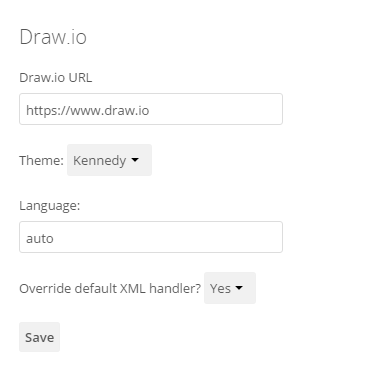
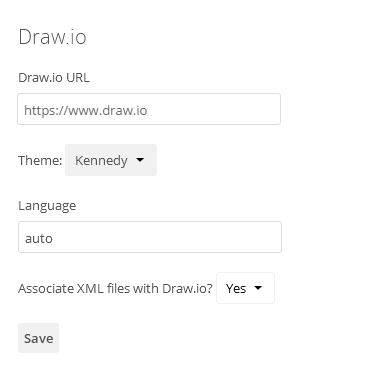
Bugfixes, new version 0.8.6

diff --git a/drawio/js/main.js b/drawio/js/main.js
@@ -9,6 +9,8 @@
 
     OCA.Drawio = _.extend({}, OCA.Drawio);
 
+    OCA.AppSettings = null;
+
     if (!OCA.Drawio.AppName)
     {
         OCA.Drawio = {
@@ -90,33 +92,34 @@
                 return;
             }
 
-            var override_default = true;
-
             $.get(OC.generateUrl("apps/" + OCA.Drawio.AppName + "/ajax/settings"),
-                function onSuccess(mimes)
+                function onSuccess(json)
                 {
+                    OCA.AppSettings = json.settings;
+                    OCA.Drawio.mimes = json.formats;
 
-                    OCA.Drawio.mimes = mimes;
-                    $.each(mimes, function (ext, attr)
+                    $.each(OCA.Drawio.mimes, function (ext, attr)
                     {
                         fileList.fileActions.registerAction({
                             name: "drawioOpen",
                             displayName: t(OCA.Drawio.AppName, "Open in Draw.io"),
                             mime: attr.mime,
                             permissions: OC.PERMISSION_READ | OC.PERMISSION_UPDATE,
-                            icon: function () {
+                            icon: function ()
+                            {
                                 return OC.imagePath(OCA.Drawio.AppName, "btn-edit");
                             },
-                            actionHandler: function (fileName, context) {
+                            iconClass: "icon-drawio-xml",
+                            actionHandler: function (fileName, context)
+                            {
                                 OCA.Drawio.FileClick(fileName, context, attr);
                             }
                         });
 
-                        if ( (fileList.fileActions.getDefaultFileAction(attr.mime, "file", OC.PERMISSION_READ) == false) || (override_default) )
+                        if ( (fileList.fileActions.getDefaultFileAction(attr.mime, "file", OC.PERMISSION_READ) == false) || (OCA.AppSettings.overrideXml=="yes") ) //yes, it's "yes" ;-)
                         {
                             fileList.fileActions.setDefault(attr.mime, "drawioOpen");
                         }
-
                     });
                 }
             );
@@ -150,3 +153,52 @@
 
 OC.Plugins.register("OCA.Files.FileList", OCA.Drawio.FileList);
 OC.Plugins.register("OCA.Files.NewFileMenu", OCA.Drawio.NewFileMenu);
+
+
+
+
+/*
+ A little bit of a hack - changing file icon...
+*/
+$(document).ready(function()
+{
+
+    PluginDrawIO_ChangeIcons = function()
+    {
+         $("#filestable").find("tr[data-type=file]").each(function()
+         {
+                if ( ($(this).attr("data-mime")=="application/xml") && ($(this).find("div.thumbnail").length>0) )
+                {
+                    if ($(this).find("div.thumbnail").hasClass("icon-drawio-xml")==false)
+                    {
+                         $(this).find("div.thumbnail").addClass("icon icon-drawio-xml");
+                    }
+                }
+         });
+    };
+
+
+    if ($('#filesApp').val())
+    {
+
+        $('#app-content-files')
+            .add('#app-content-extstoragemounts')
+            .on('changeDirectory', function(e)
+            {
+                if (OCA.AppSettings==null) return;
+                if (OCA.AppSettings.overrideXml=="yes")
+                {
+                    PluginDrawIO_ChangeIcons();
+                }
+            })
+            .on('fileActionsReady', function(e)
+            {
+                if (OCA.AppSettings==null) return;
+                if (OCA.AppSettings.overrideXml=="yes")
+                {
+                    PluginDrawIO_ChangeIcons();
+                }
+            });
+    }
+});
+

diff --git a/drawio/l10n/pl.js b/drawio/l10n/pl.js
@@ -5,17 +5,17 @@ OC.L10N.register(
   "Saving..." : "Zapisywanie...",
   "File saved!" : "Plik zapisany!",
   "Draw.io URL" : "Adres URL Draw.io",
-  "Language:" : "Język:",
+  "Language" : "Język:",
   "Loading, please wait." : "Wczytuję, proszę czekać.",
   "File created" : "Plik został utworzony",
   "Diagram" : "Schemat",
   "Yes" : "Tak",
   "No" : "Nie",
-  "Override default XML handler?" : "Przejąć obsługę formatu XML?",
+  "Associate XML files with Draw.io?" : "Przejąć obsługę formatu XML?",
   "Kennedy" : "Kennedy",
   "Atlas" : "Atlas",
   "Theme:" : "Motyw",
-  "auto or en,fr,de,es,ru,pl,zh,jp..." : "auto lub en,fr,de,es,ru,pl,zh,jp...",
+  "auto or en,fr,de,es,ru,pl,zh,jp..." : "auto lub en/fr/de/es/ru/pl/zh/jp...",
   "Save" : "Zapisz",
   "Error when trying to connect" : "Błąd w trakcie połączenia",
   "Settings have been successfully saved" : "Ustawienia zostały zapisane!",

diff --git a/drawio/l10n/en_GB.js b/drawio/l10n/en_GB.js
@@ -5,17 +5,17 @@ OC.L10N.register(
   "Saving..." : "Saving...",
   "File saved!" : "File saved!",
   "Draw.io URL" : "Draw.io URL",
-  "Language:" : "Language:",
+  "Language" : "Language:",
   "Loading, please wait." : "Loading, please wait.",
   "File created" : "File created",
   "Diagram" : "Diagram",
   "Yes" : "Yes",
   "No" : "No",
-  "Override default XML handler?" : "Override default XML handler?",
+  "Associate XML files with Draw.io?" : "Associate XML files with Draw.io?",
   "Kennedy" : "Kennedy",
   "Atlas" : "Atlas",
   "Theme:" : "Theme",
-  "auto or en,fr,de,es,ru,pl,zh,jp..." : "auto or en,fr,de,es,ru,pl,zh,jp...",
+  "auto or en,fr,de,es,ru,pl,zh,jp..." : "auto or en/fr/de/es/ru/pl/zh/jp...",
   "Save" : "Save",
   "Error when trying to connect" : "Error when trying to connect",
   "Settings have been successfully saved" : "Settings have been successfully saved",

diff --git a/drawio/js/editor.js b/drawio/js/editor.js
@@ -116,6 +116,12 @@
                    {
                         OCA.Drawio.SaveFile(msg.xml);
                    }
+                   else if (msg.event == 'export')
+                   {
+                        //[todo] in the future
+                        //Note: it won't fire automatically, host needs to request it manually by posting the following message:
+                        //      postMessage(JSON.stringify({action: 'export', format: 'xmlpng', spinKey: 'saving'}), '*');
+                   }
                    else if (msg.event == 'exit')
                    {
                         window.removeEventListener('message', receive);

diff --git a/drawio/css/main.css b/drawio/css/main.css
@@ -3,3 +3,10 @@
 {
     background-image: url("../img/new-xml.svg");
 }
+
+.icon-drawio-xml
+{
+    background-image: url("../img/new-xml-big.svg") !important;
+}
+
+

diff --git a/drawio/l10n/pl.php b/drawio/l10n/pl.php
@@ -4,17 +4,17 @@ $TRANSLATIONS = array(
   "Saving..." => "Zapisywanie...",
   "File saved!" => "Plik zapisany!",
   "Draw.io URL" => "Adres URL Draw.io",
-  "Language:" => "Język:",
+  "Language" => "Język:",
   "Loading, please wait." => "Wczytuję, proszę czekać.",
   "File created" => "Plik został utworzony",
   "Diagram" => "Schemat",
   "Yes" => "Tak",
   "No" => "Nie",
-  "Override default XML handler?" => "Przejąć obsługę formatu XML?",
+  "Associate XML files with Draw.io?" => "Przejąć obsługę formatu XML?",
   "Kennedy" => "Kennedy",
   "Atlas" => "Atlas",
   "Theme:" => "Motyw",
-  "auto or en,fr,de,es,ru,pl,zh,jp..." => "auto lub en,fr,de,es,ru,pl,zh,jp...",
+  "auto or en,fr,de,es,ru,pl,zh,jp..." => "auto lub en/fr/de/es/ru/pl/zh/jp...",
   "Save" => "Zapisz",
   "Error when trying to connect" => "Błąd w trakcie połączenia",
   "Settings have been successfully saved" => "Ustawienia zostały zapisane!",

diff --git a/drawio/templates/settings.php b/drawio/templates/settings.php
@@ -17,12 +17,12 @@
     </p>
 
     <p class="drawio-header">
-    <label for='lang'><?php p($l->t("Language:")) ?></label>
-    <input id="lang" value="<?php p($_["lang"]) ?>" placeholder="<?php p($l->t("<auto or en,fr,de,es,ru,pl,zh,jp...")) ?>>" type="text">
+    <label for='lang'><?php p($l->t("Language")) ?></label>
+    <input id="lang" value="<?php p($_["lang"]) ?>" placeholder="<<?php p($l->t("auto or en,fr,de,es,ru,pl,zh,jp...")) ?>>" type="text">
     </p>
 
     <p class="drawio-header">
-    <label for='overrideXml'><?php p($l->t("Override default XML handler?")) ?>
+    <label for='overrideXml'><?php p($l->t("Associate XML files with Draw.io?")) ?>
     <select id="overrideXml">
       <option value="yes"<?php if ($_["overrideXml"]=="yes") echo ' selected'; ?>><?php p($l->t("Yes")) ?></option>
       <option value="no"<?php if ($_["overrideXml"]=="no") echo ' selected'; ?>><?php p($l->t("No")) ?></option>

diff --git a/drawio/l10n/en_GB.php b/drawio/l10n/en_GB.php
@@ -4,17 +4,17 @@ $TRANSLATIONS = array(
   "Saving..." => "Saving...",
   "File saved!" => "File saved!",
   "Draw.io URL" => "Draw.io URL",
-  "Language:" => "Language:",
+  "Language" => "Language:",
   "Loading, please wait." => "Loading, please wait.",
   "File created" => "File created",
   "Diagram" => "Diagram",
   "Yes" => "Yes",
   "No" => "No",
-  "Override default XML handler?" => "Override default XML handler?",
+  "Associate XML files with Draw.io?" => "Associate XML files with Draw.io?",
   "Kennedy" => "Kennedy",
   "Atlas" => "Atlas",
   "Theme:" => "Theme",
-  "auto or en,fr,de,es,ru,pl,zh,jp..." => "auto or en,fr,de,es,ru,pl,zh,jp...",
+  "auto or en,fr,de,es,ru,pl,zh,jp..." => "auto or en/fr/de/es/ru/pl/zh/jp...",
   "Save" => "Save",
   "Error when trying to connect" => "Error when trying to connect",
   "Settings have been successfully saved" => "Settings have been successfully saved",

diff --git a/drawio/controller/settingscontroller.php b/drawio/controller/settingscontroller.php
@@ -93,9 +93,13 @@ class SettingsController extends Controller
      *
      * @NoAdminRequired
      */
-    public function formats()
+    public function getsettings()
     {
-        return $this->config->formats;
+         $data = array();
+         $data['formats'] = $this->config->formats;
+         $data['settings'] = array();
+         $data['settings']['overrideXml'] = $this->config->GetOverrideXml();
+         return $data;
     }
 
 }

diff --git a/drawio/controller/editorcontroller.php b/drawio/controller/editorcontroller.php
@@ -172,6 +172,9 @@ class EditorController extends Controller
         {
             $csp->addAllowedScriptDomain($drawioUrl);
             $csp->addAllowedFrameDomain($drawioUrl);
+            $csp->addAllowedFrameDomain("blob:");
+            $csp->addAllowedChildSrcDomain($drawioUrl);
+            $csp->addAllowedChildSrcDomain("blob:");
         }
         $response->setContentSecurityPolicy($csp);
 

diff --git a/drawio/appinfo/routes.php b/drawio/appinfo/routes.php
@@ -8,6 +8,6 @@ return [
        ["name" => "editor#create", "url" => "/ajax/new", "verb" => "POST"],
 
        ["name" => "settings#settings", "url" => "/ajax/settings", "verb" => "POST"],
-       ["name" => "settings#formats", "url" => "/ajax/settings", "verb" => "GET"],
+       ["name" => "settings#getsettings", "url" => "/ajax/settings", "verb" => "GET"],
     ]
 ];

diff --git a/README.md b/README.md
@@ -7,7 +7,6 @@ This app enables users to create and edit diagrams in [Nextcloud](https://nextcl
 ![](screenshots/drawio_integration.png)
 
 
-
 ## Info ##
 - Requires [Nextcloud](https://nextcloud.com) >11.0.0
 - Tested with Chrome 58 and Firefox 53
@@ -15,16 +14,23 @@ This app enables users to create and edit diagrams in [Nextcloud](https://nextcl
 - Inspired by the old Draw.io Integration and OnlyOffice
 
 
-
 ## Download ##
-[ZIP](https://github.com/pawelrojek/nextcloud-drawio/raw/master/drawio-v0.8.5.zip) [TAR.GZ](https://github.com/pawelrojek/nextcloud-drawio/raw/master/drawio-v0.8.5.tar.gz)
+[zip](https://github.com/pawelrojek/nextcloud-drawio/releases/download/v0.8.6/drawio-v0.8.6.zip) [tar.gz](https://github.com/pawelrojek/nextcloud-drawio/releases/download/v0.8.6/drawio-v0.8.6.tar.gz)
 
 
+## Changelog ##
+## v0.8.6
+- New XML icon added to the file list
+- OverrideXML setting changed to "Associate XML files with Draw.io"
+- Export fixed
+- (Minor) Screenshot added
+- (Minor) GitHub screenshot fixed
+[View complete changelog](https://github.com/pawelrojek/nextcloud-drawio/blob/master/drawio/CHANGELOG.md)
 
-# Installation
+
+## Installation ##
 1. Copy Nextcloud draw.io integration app ("drawio" directory) to your Nextcloud server into the /apps/ directory
 2. Go to Apps -> "+ Apps" > "Not Enabled" and _Enable_ the **Draw.io** application
-
 
 
 # Configuration
@@ -37,10 +43,11 @@ Click "Save" when you're done.
 
 ## ToDo ##
  * Custom file formats (instead of .xml)
+ * Exporting to file directly on the Nextcloud server
 
 
 ## Known issues ##
- * Override XML integration cannot be disabled (this setting does not work yet)
+ * none
 
 
 ## License ##
